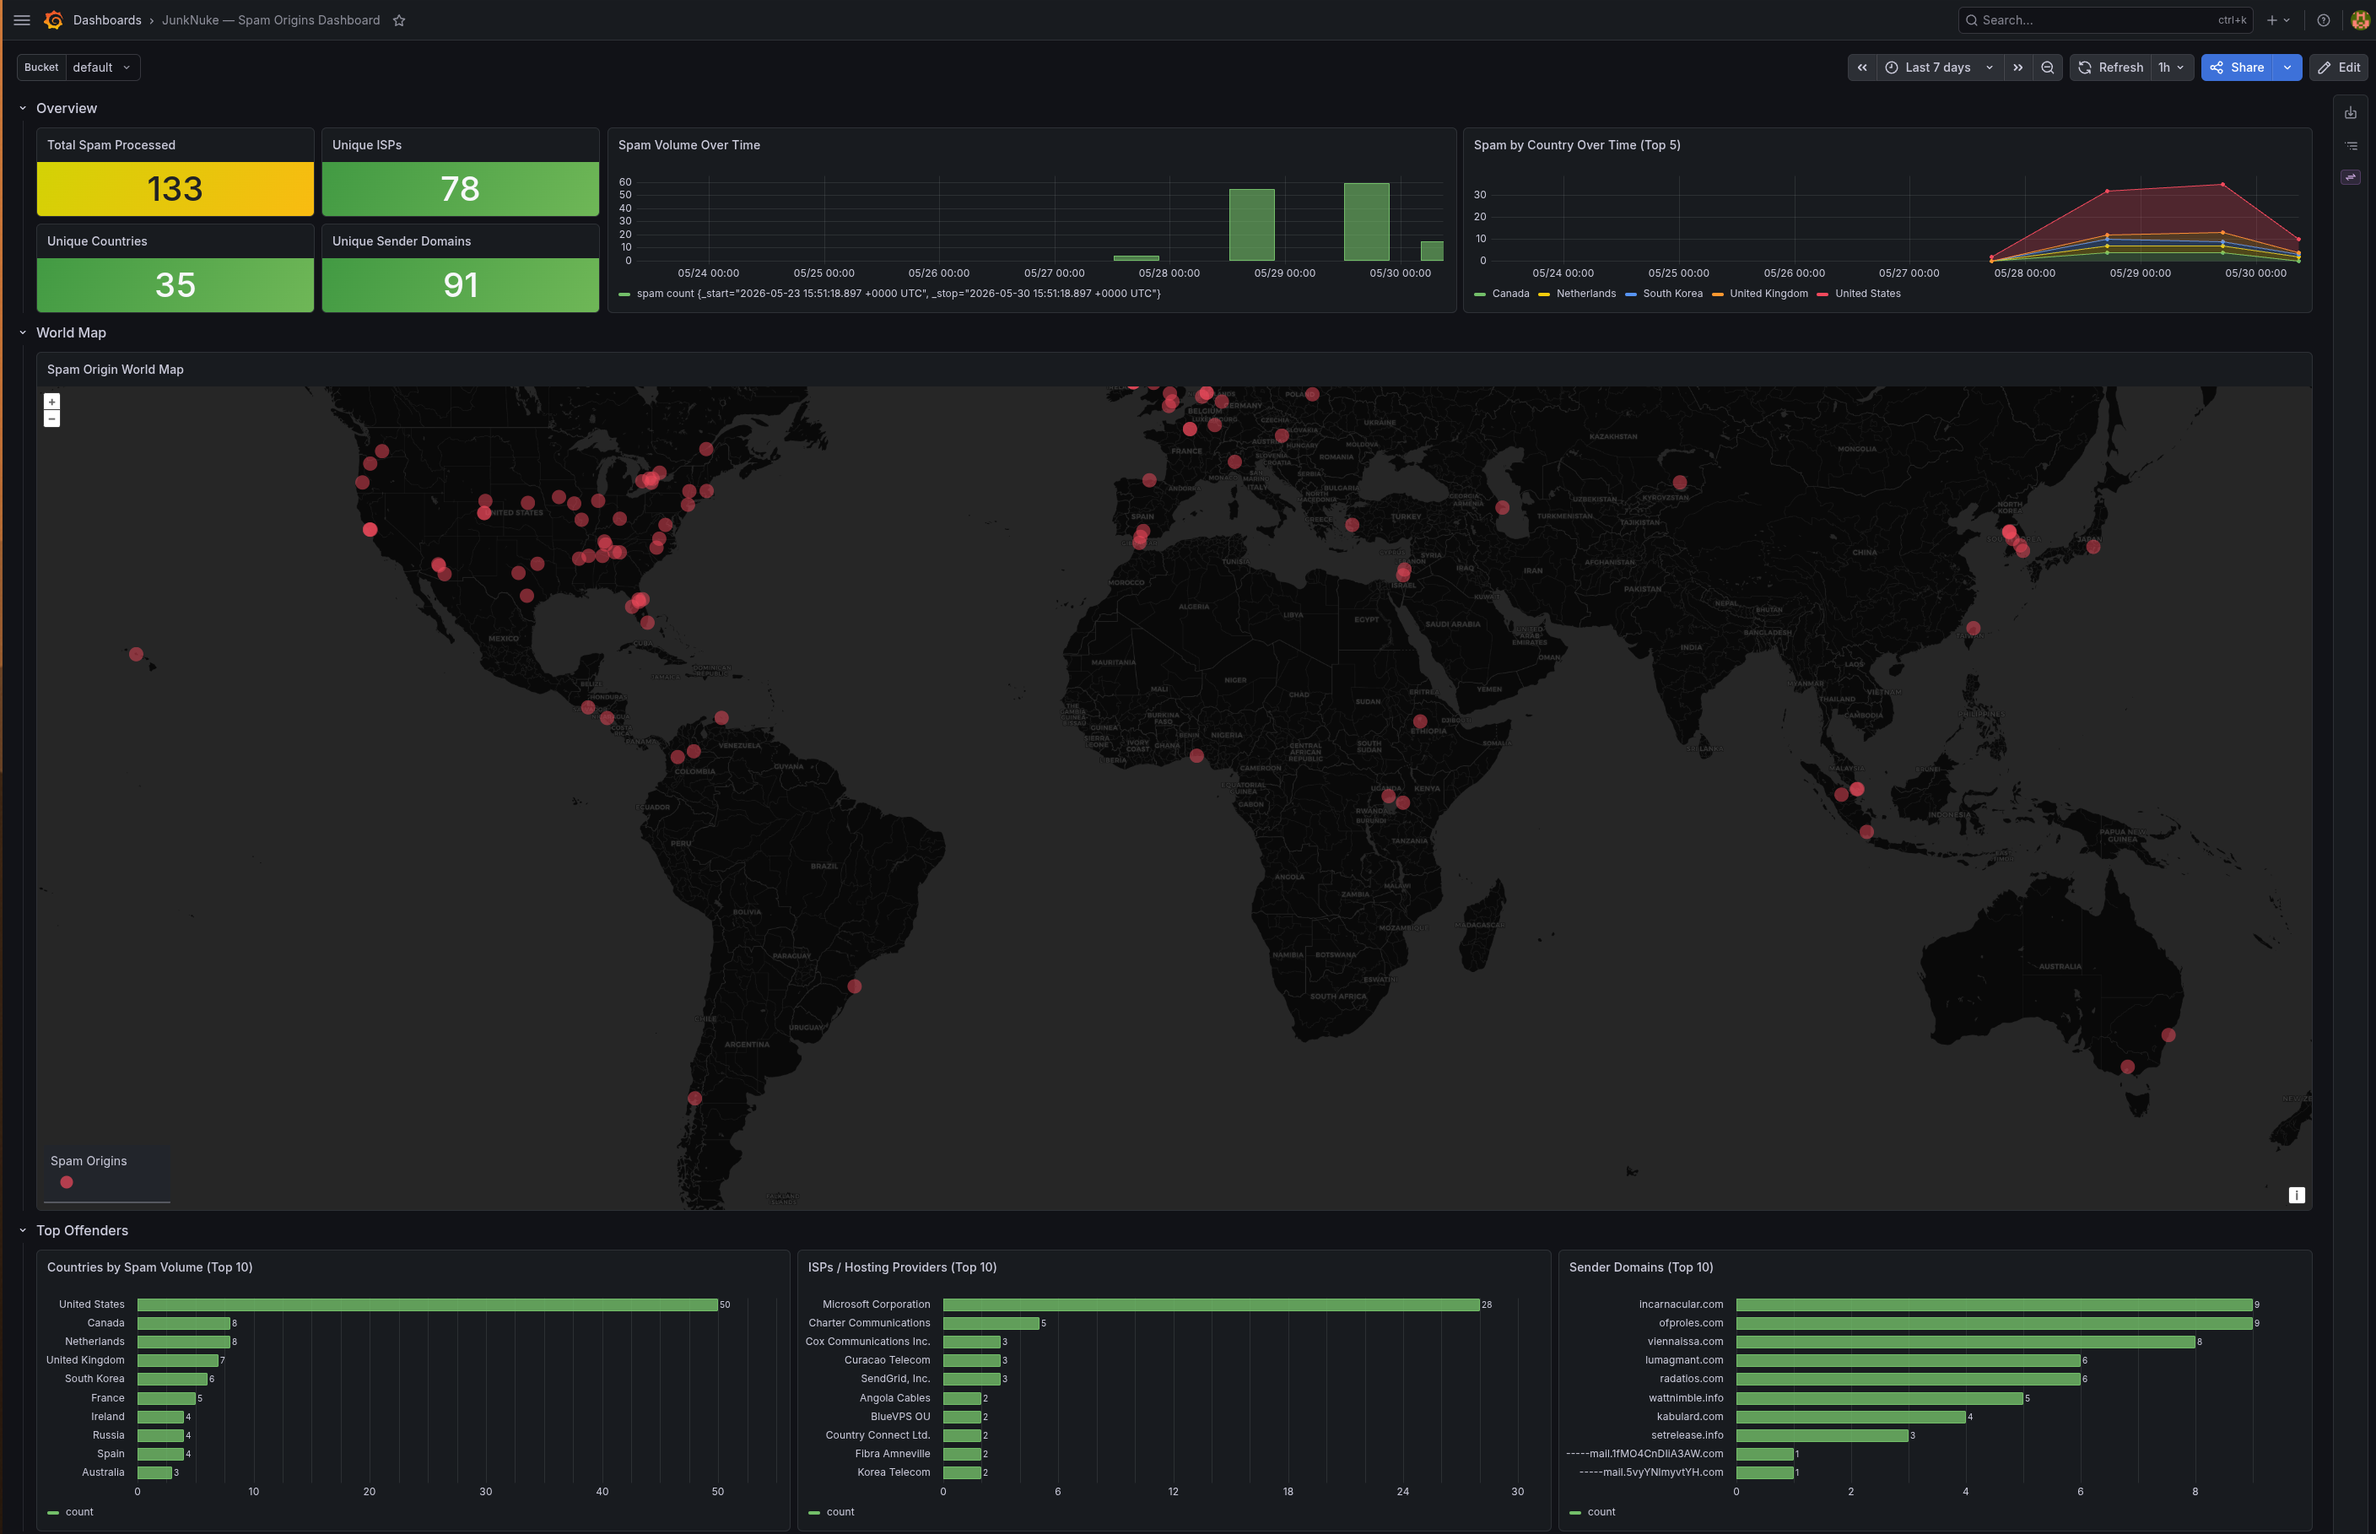
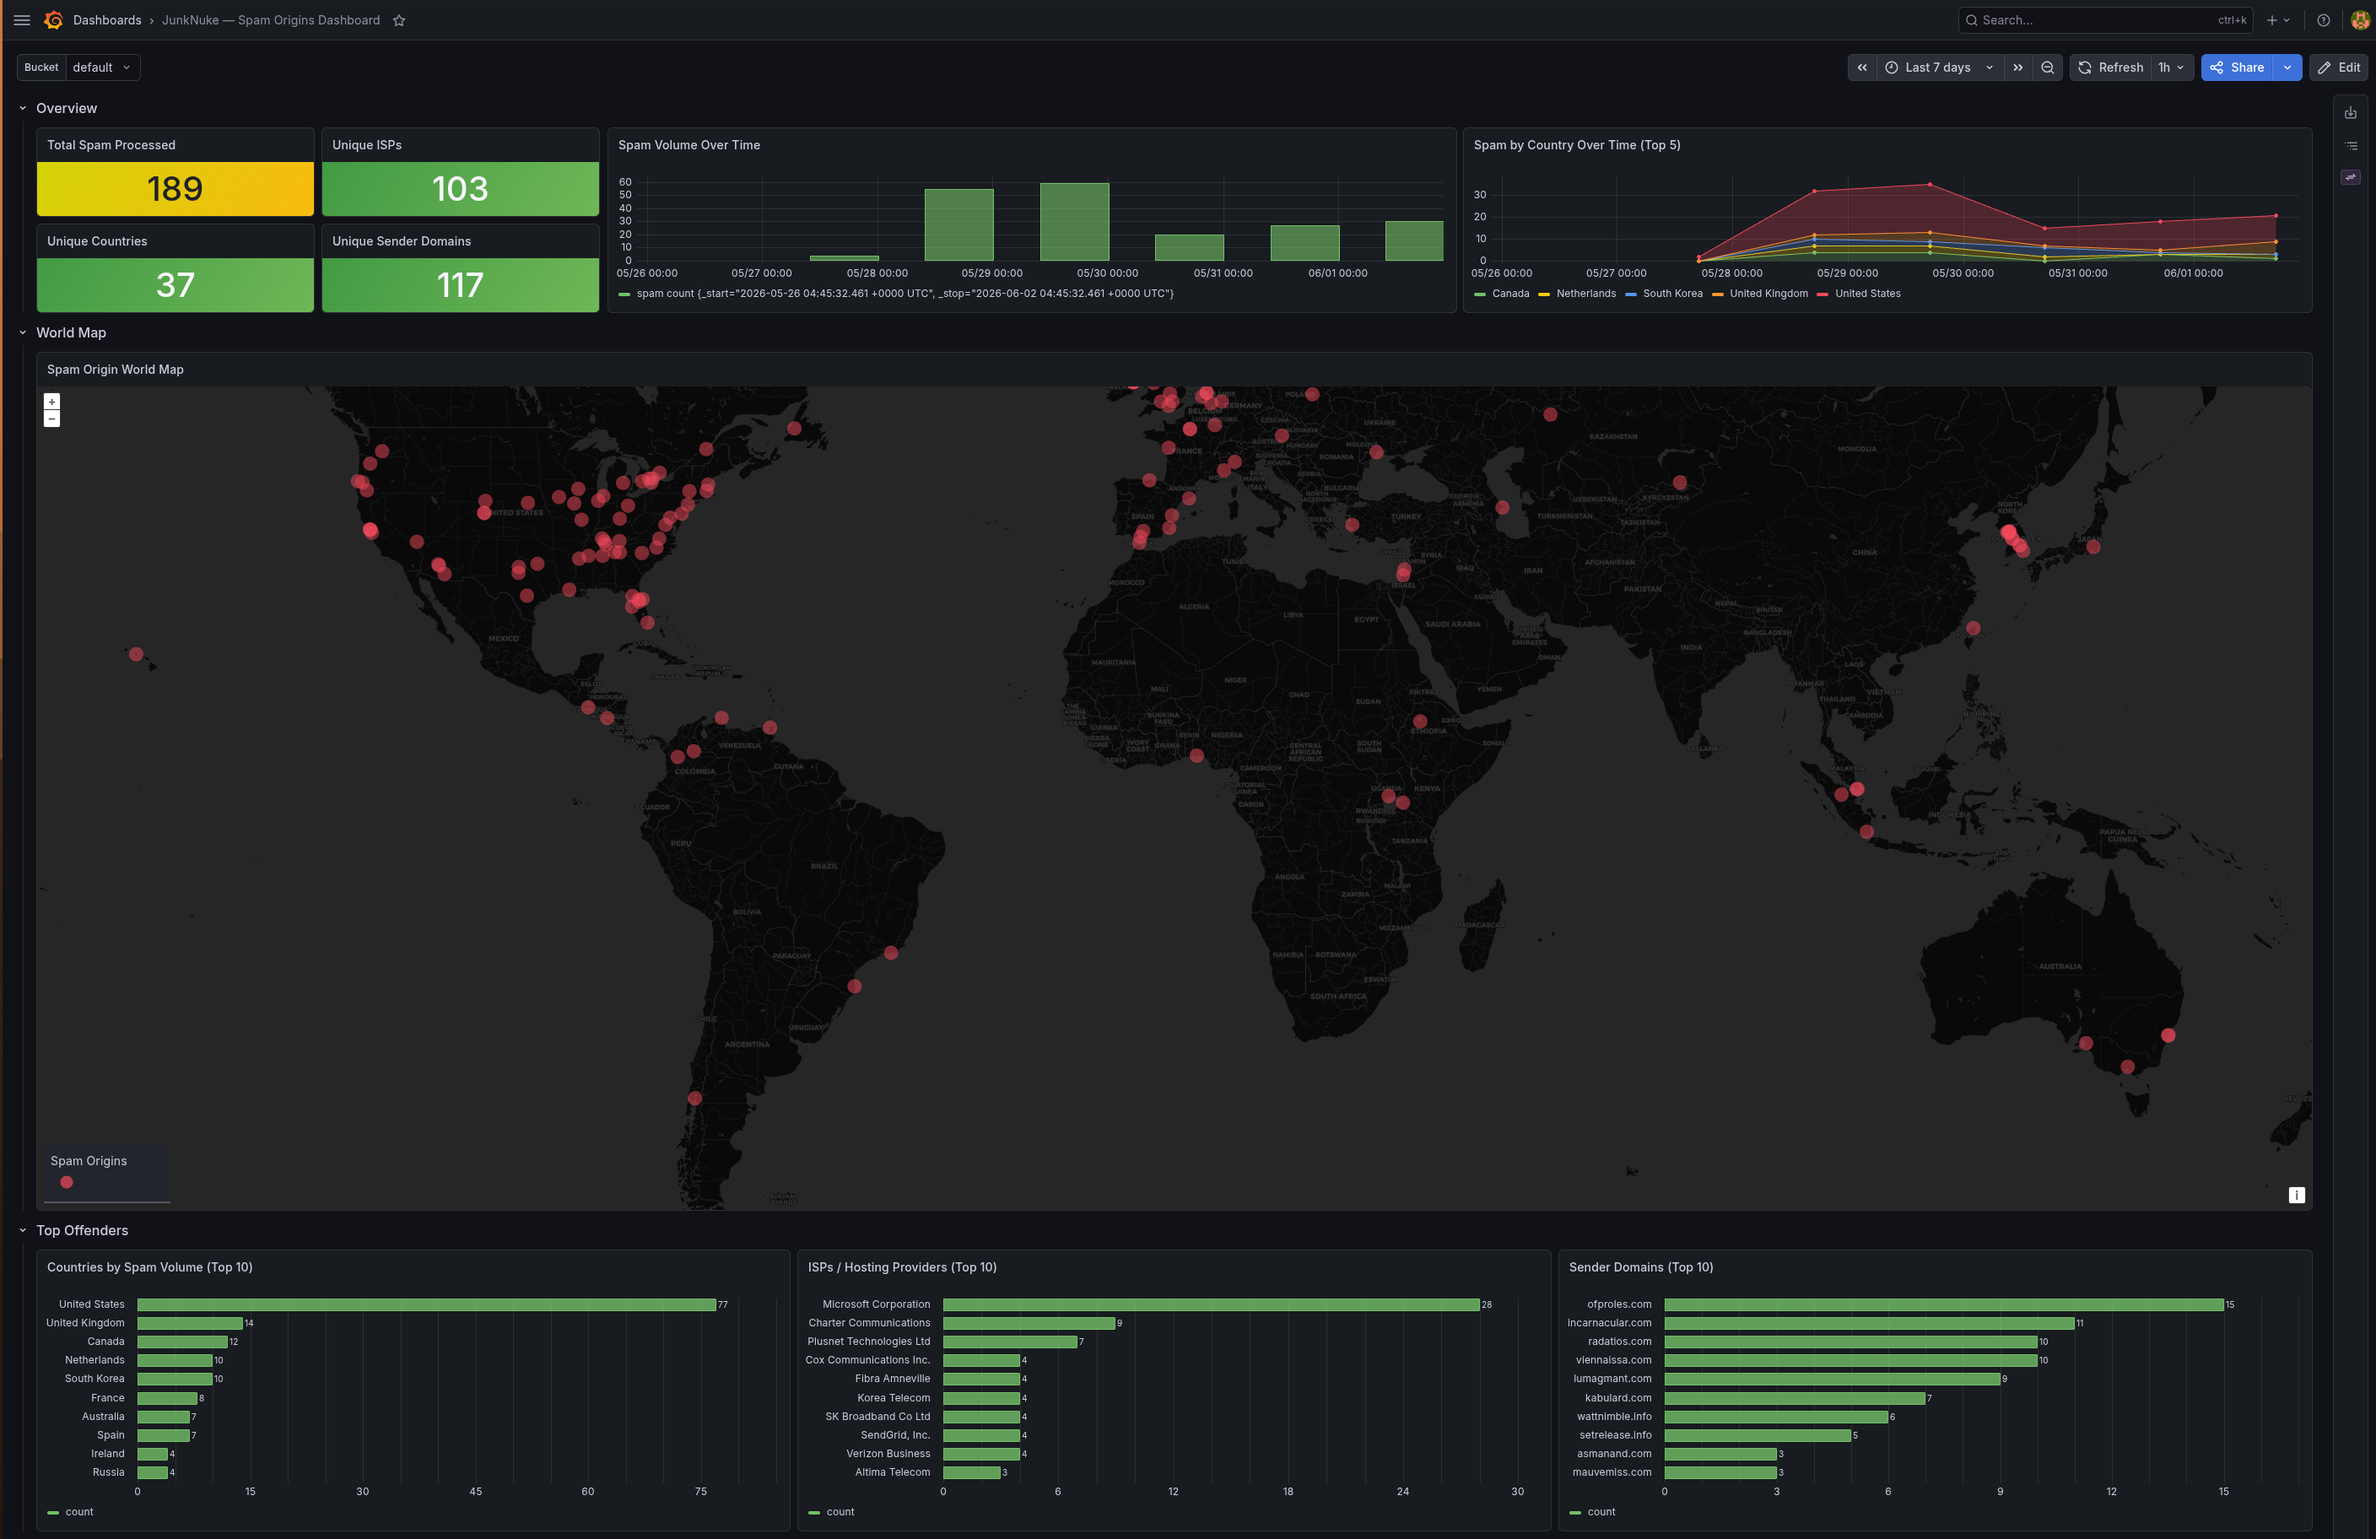
update README and image

diff --git a/README.md b/README.md
@@ -184,3 +184,16 @@ tail -f data/junknuke.log
 - `.env` contains credentials — never commit it
 - Both are in `.gitignore`
 - The script never stores your Microsoft password
+
+---
+
+## Roadmap
+
+- Gmail support via Google Gmail API
+- Yahoo Mail support
+- Additional provider support planned — contributions welcome
+
+---
+
+## License
+MIT
